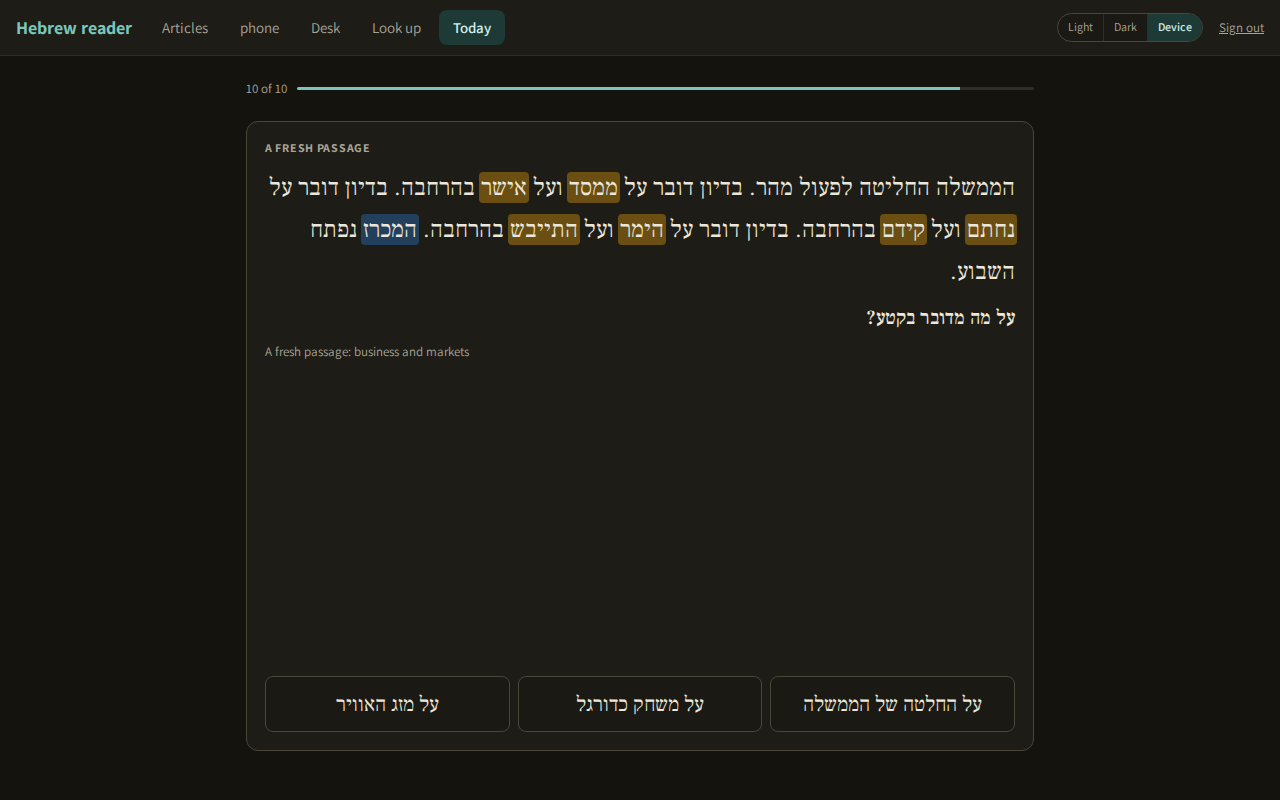
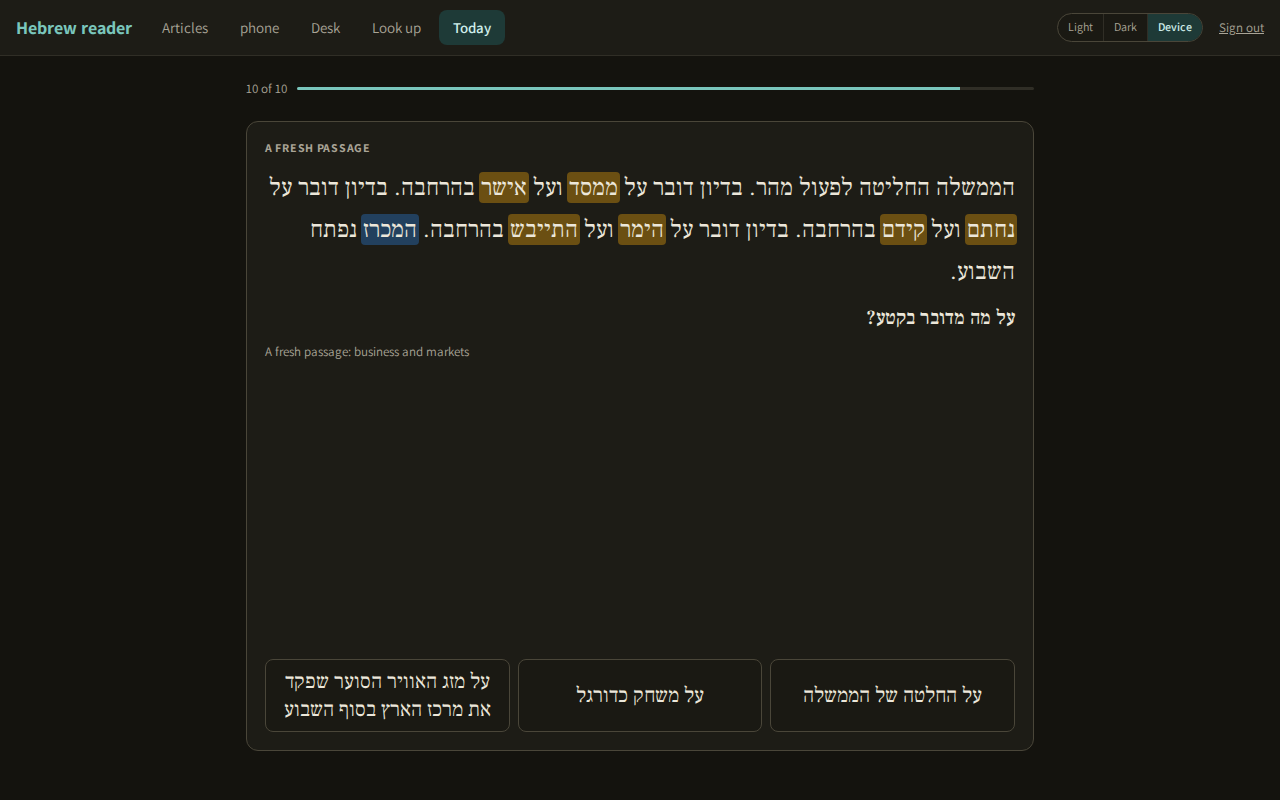
Today step 5: checks for numbered sets, Another set, pools and the stacked choices; counts in CHECKS.md, PLAN.md close-out hebrew-today-two, README paragraph

Changed region(s): [[0.2188, 0.8438, 0.4062, 0.9062], [0.625, 0.8438, 0.7812, 0.9062], [0.4375, 0.8438, 0.5625, 0.9062]]

diff --git a/docs/CHECKS.md b/docs/CHECKS.md
@@ -10,8 +10,8 @@ screenshot scripts, unchanged.
 | Check | What it proves |
 | - | - |
 | syntax | Every `.js`, `.mjs` and `.cjs` file outside `node_modules` parses (`node --check`, file by file). |
-| tests | `npm test` = `npm run smoke`: `scripts/smoke.mjs` (255 checks), `scripts/grow-smoke.mjs` (66), `scripts/paper-smoke.mjs` (81), `scripts/hunt-smoke.mjs` (39, "Find an article" against local news pages) and `scripts/lookup-smoke.mjs` (64, the Look up page and the references shown inside the reader, its redirect gate included, against local reference pages; about 25 s, because the 20-second fetch limit is timed for real) and `scripts/today-smoke.mjs` (111, the Today page's daily set: choosing the words (shaky before new, new words judged once by the model, the easy ones skipped), each word's exercise and the source it names, its read or made-up sentence, answers with niqud, fresh passages, their length and the verb they blank, "Too easy", when a set is made, the 05:00 Tokyo scheduler, answers, Show and Undo, an older page's Undo refused; about 3 s; its day-dependent rules call `lib/today.js` in the check's own process with a seeded clock), each against a real server with local stand-ins for OpenRouter, the spine and the reference sites (`scripts/mock-openrouter.mjs`, `scripts/mock-spine.mjs`, `scripts/mock-references.mjs`). 616 in all (16 Oct 2026). |
-| screenshots | `npm run screenshots`: `scripts/screenshots.mjs` (229), `desk-pages.mjs` (47), `grow-pages.mjs` (66), `paper-pages.mjs` (53), `hunt-pages.mjs` (23), `lookup-pages.mjs` (44), `today-pages.mjs` (67) — every screen at phone and computer size, signing in through the form; 529 in all (16 Oct 2026). Needs Playwright's browser. The Checks run keeps the hunt's screenshots as the artifact `hunt-screenshots`. |
+| tests | `npm test` = `npm run smoke`: `scripts/smoke.mjs` (255 checks), `scripts/grow-smoke.mjs` (66), `scripts/paper-smoke.mjs` (81), `scripts/hunt-smoke.mjs` (39, "Find an article" against local news pages) and `scripts/lookup-smoke.mjs` (64, the Look up page and the references shown inside the reader, its redirect gate included, against local reference pages; about 25 s, because the 20-second fetch limit is timed for real) and `scripts/today-smoke.mjs` (140, the Today page's sets: choosing the words (shaky before new, new words judged once by the model, the easy ones skipped), each word's exercise and the source it names, its read or made-up sentence, answers with niqud, fresh passages, their length and the verb they blank, "Too easy", when a set is made, the 05:00 Tokyo scheduler, answers, Show and Undo, an older page's Undo refused; since hebrew-today-two: sets numbered by `seq` (the migration's back-fill, `for_day` "#2", "#3" for later sets the same day), "Another set" (`POST /today/another`, two at once making one set), the words of an unfinished set skipped, the pools when nothing more is due (shaky not yet due, then solid not yet due) and their note, "no data" only with no words, the 05:00 build making a set only when none is unfinished; about 4 s; its day-dependent rules call `lib/today.js` in the check's own process with a seeded clock), each against a real server with local stand-ins for OpenRouter, the spine and the reference sites (`scripts/mock-openrouter.mjs`, `scripts/mock-spine.mjs`, `scripts/mock-references.mjs`). 645 in all (17 Oct 2026). |
+| screenshots | `npm run screenshots`: `scripts/screenshots.mjs` (229), `desk-pages.mjs` (47), `grow-pages.mjs` (66), `paper-pages.mjs` (53), `hunt-pages.mjs` (23), `lookup-pages.mjs` (44), `today-pages.mjs` (83; since hebrew-today-two also the "Done" screen's "Another set" button, "Building…", the new set at "1 of 10", and the answer choices stacked at phone width with every choice's text inside its button, a long third choice included) — every screen at phone and computer size, signing in through the form; 545 in all (17 Oct 2026). Needs Playwright's browser. The Checks run keeps the hunt's screenshots as the artifact `hunt-screenshots`. |
 | (by hand) the frame test | `node scripts/reference-frames.mjs`: asks the seven live reference sites whether they can be framed. Not in `npm run check` (it reaches the live sites); its last result is in `docs/REFERENCES.md`. |
 
 The fast tests, `npm run test:fast`, are grow, paper and hunt only:

diff --git a/PLAN.md b/PLAN.md
@@ -1352,3 +1352,60 @@ day's words with their results. Nothing due: "Nothing is due today".
   the model down, an easy word saved shaky drilled again, the passage verb
   both ways, "Too easy" and its Undo), `today-pages.mjs` 67; totals 616
   server checks and 529 page checks.
+
+## hebrew-today-two (17 Oct 2026, the rented Linux machine, OpenRig team): as many sets a day as Dan likes
+
+**Dan's screens changed.** The end of a set says "Done" (the day is no
+longer the unit) and, under the list of results, a large "Another set"
+button; a tap says "Building…" while the set is made (the passages take a
+few seconds) and opens the new set at "1 of 10". On the phone the answer
+choices of a passage's question, "Which preposition" and "Which spelling"
+stand one under another, full width, each choice's text wrapping inside its
+button; on the computer they stay on one row and each button grows with its
+text.
+
+- **Why** (Dan, his first day): "Can't get a new set of drills going. I
+  think we need to change the app so I can do as many sets per day as I want
+  to." A set was keyed to the Tokyo day (`drill_sets.for_day` UNIQUE, the
+  insert `OR IGNORE`), so a finished set left nothing until the next 05:00
+  build. And a longer comprehension choice spilled out of its button below
+  the card on the phone.
+- **Sets are numbered, not dated** (in `migrate()`, nothing dropped or
+  moved): `drill_sets.seq INTEGER` by `ALTER TABLE … ADD COLUMN`, back-filled
+  from `id`. The current set is the newest unfinished one (by `seq`); with
+  none unfinished the page shows the newest finished set's "Done" screen.
+  `for_day` stays the Tokyo day a set was built on; its UNIQUE constraint
+  cannot be dropped in place, so a later set built the same day writes the
+  day with "#2", "#3" after it. The only reader of `for_day` as a day is
+  `newestSetOfDay`, which reads the suffix; the page, the scheduler and the
+  Undo message do not read it (the message names the newer set by number).
+  `addDrillSet` is a plain insert inside one transaction: a failed insert is
+  an error, never an old row answered in its place.
+- **When a set is made.** `ensureSet` (the page's open, the 05:00 build)
+  makes a set only when no set is unfinished and none was built that day;
+  `newSet` (the tap, `POST /today/another`) builds one regardless. Both share
+  one guard, so two taps at once make one set.
+- **A set never runs dry.** The eight word slots fill from (a) the words due
+  (never-drilled ones included), in the order of hebrew-today-one, then the
+  rest of the solid words due; then (b) shaky words not yet due, then (c)
+  solid words not yet due, each earliest due first, the least recently
+  touched first on the same day. A word already in an unfinished set is
+  skipped. When (b) or (c) is drawn on, the set's note begins "Nothing more
+  is due; this set draws on words not yet due." Answering a word not yet due
+  moves it by the same rules as a due one. "No data" is now only for a map
+  with no words (or, the one corner left, words that are all in unfinished
+  sets or judged easy, which says so).
+- **Two things the brief did not say.** A new word answered right stays new
+  with a due day (hebrew-today-one's rule), so "a new word is never drilled"
+  is not quite so: such a word, not judged easy, is drawn on in (b) with the
+  shaky ones. And (b) and (c), like (a), take only words met in a lesson or
+  an article (a word only ever looked up is not drilled, as before).
+- **Checks** after these: `today-smoke.mjs` 140 (a second set the same day
+  through `POST /today/another`, "#2" and "#3", two taps at once, the pools
+  and their note, the words of an unfinished set skipped, answering a word
+  not yet due, "no data" only with no words, the 05:00 build with a set
+  unfinished, the migration's back-fill), `today-pages.mjs` 83 ("Another
+  set" under the list, "Building…", the new set at "1 of 10", the choices
+  stacked at phone width with every choice's text inside its button, a long
+  third choice in the stand-in's passage question); totals 645 server checks
+  and 545 page checks.

diff --git a/README.md b/README.md
@@ -65,6 +65,14 @@ a shaky word solid; a wrong one brings it back tomorrow and makes it shaky.
 Each answer shows the word and when it is next due, with Undo. A set not
 finished stays until it is; nothing reminds him or counts days.
 
+He can do as many sets a day as he likes: a finished set ends on "Done" with
+the results and an "Another set" button, which makes a new set and opens it
+at item 1. A new set never repeats a word from a set still unfinished, and it
+never runs dry: when the words due are used up it draws on his shaky words
+not yet due, then his solid ones, earliest due first, and its note says so
+("Nothing more is due; this set draws on words not yet due."). On the phone
+the answer choices stand one under another, each fully readable.
+
 ## Running it
 
 ```
